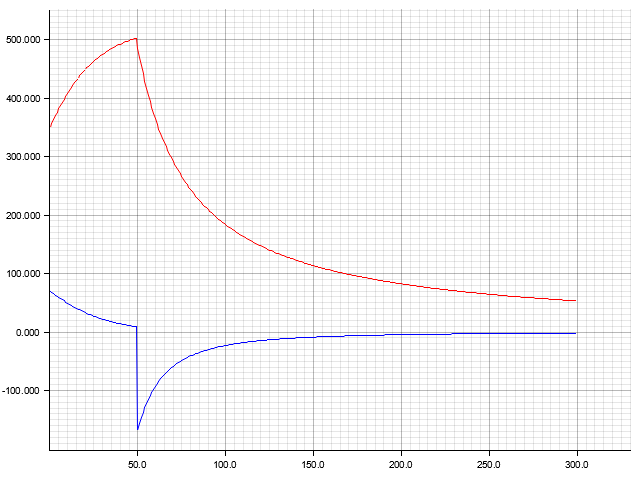
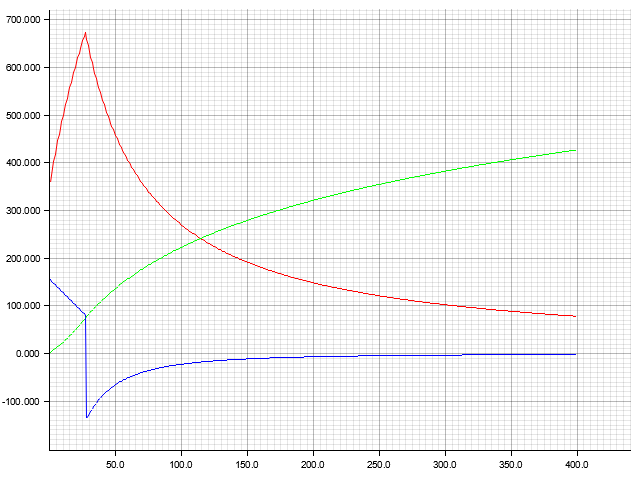
Add distance
Took 8 minutes

Changed region(s): [[0.0, 0.0312, 1.0, 1.0]]

diff --git a/src/bin/main.rs b/src/bin/main.rs
@@ -1,11 +1,13 @@
 use std::io;
+
+use plotters::prelude::*;
 use wt_datamine_extractor_lib::missile::missile::Missile;
+
 use wt_ballistics_calc_lib::launch_parameters::LaunchParameter;
 use wt_ballistics_calc_lib::runner::{generate, LaunchResults};
-use plotters::prelude::*;
 
 fn main() {
-	let target = 5;
+	let target = 27;
 	let missiles: Vec<Missile> = serde_json::from_str(&std::fs::read_to_string("../wt_datamine_extractor/missile_index/all.json").unwrap()).unwrap();
 	let results = generate(&missiles[target], &LaunchParameter::new_from_default_hor(), 0.1, true);
 	println!("{}", missiles[target].name);
@@ -18,6 +20,11 @@ fn main() {
 	let mut a_profile: Vec<(f32, f64)> = Vec::new();
 	for i in results.profile.a.clone().iter().enumerate() {
 		a_profile.push((i.0 as f32, *i.1 as f64));
+	}
+
+	let mut d_profile: Vec<(f32, f64)> = Vec::new();
+	for i in results.profile.d.clone().iter().enumerate() {
+		d_profile.push((i.0 as f32, *i.1 / 20 as f64));
 	}
 
 	let root = BitMapBackend::new("5.png", (640, 480)).into_drawing_area();
@@ -51,5 +58,10 @@ fn main() {
 	chart.draw_series(LineSeries::new(
 		a_profile,
 		&BLUE,
+	)).unwrap();
+
+	chart.draw_series(LineSeries::new(
+		d_profile,
+		&GREEN,
 	)).unwrap();
 }
